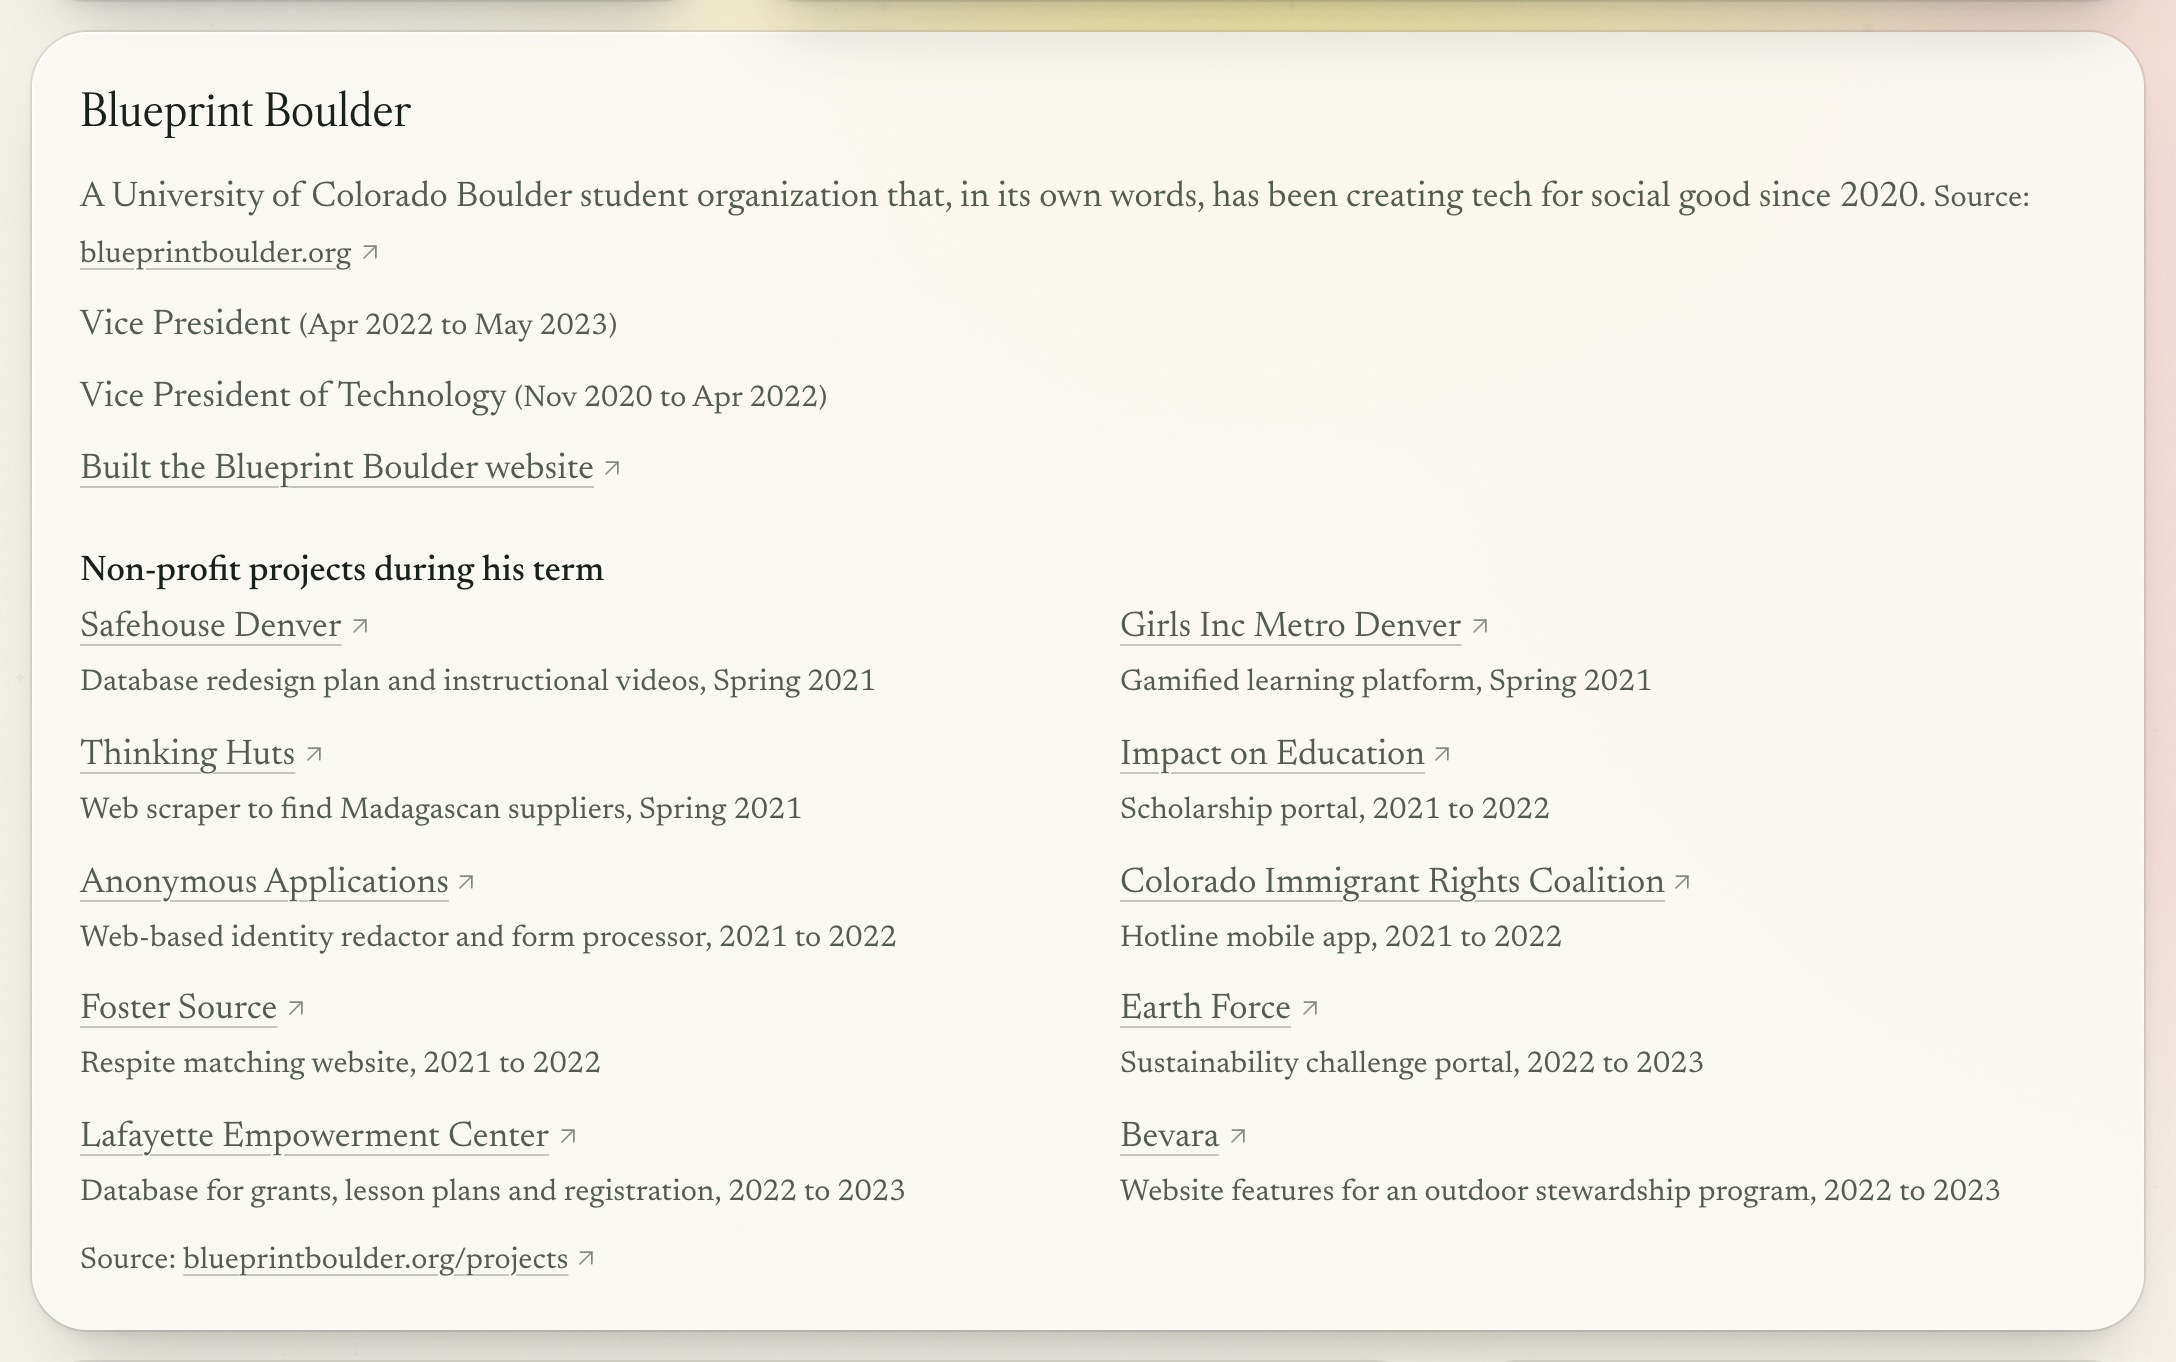
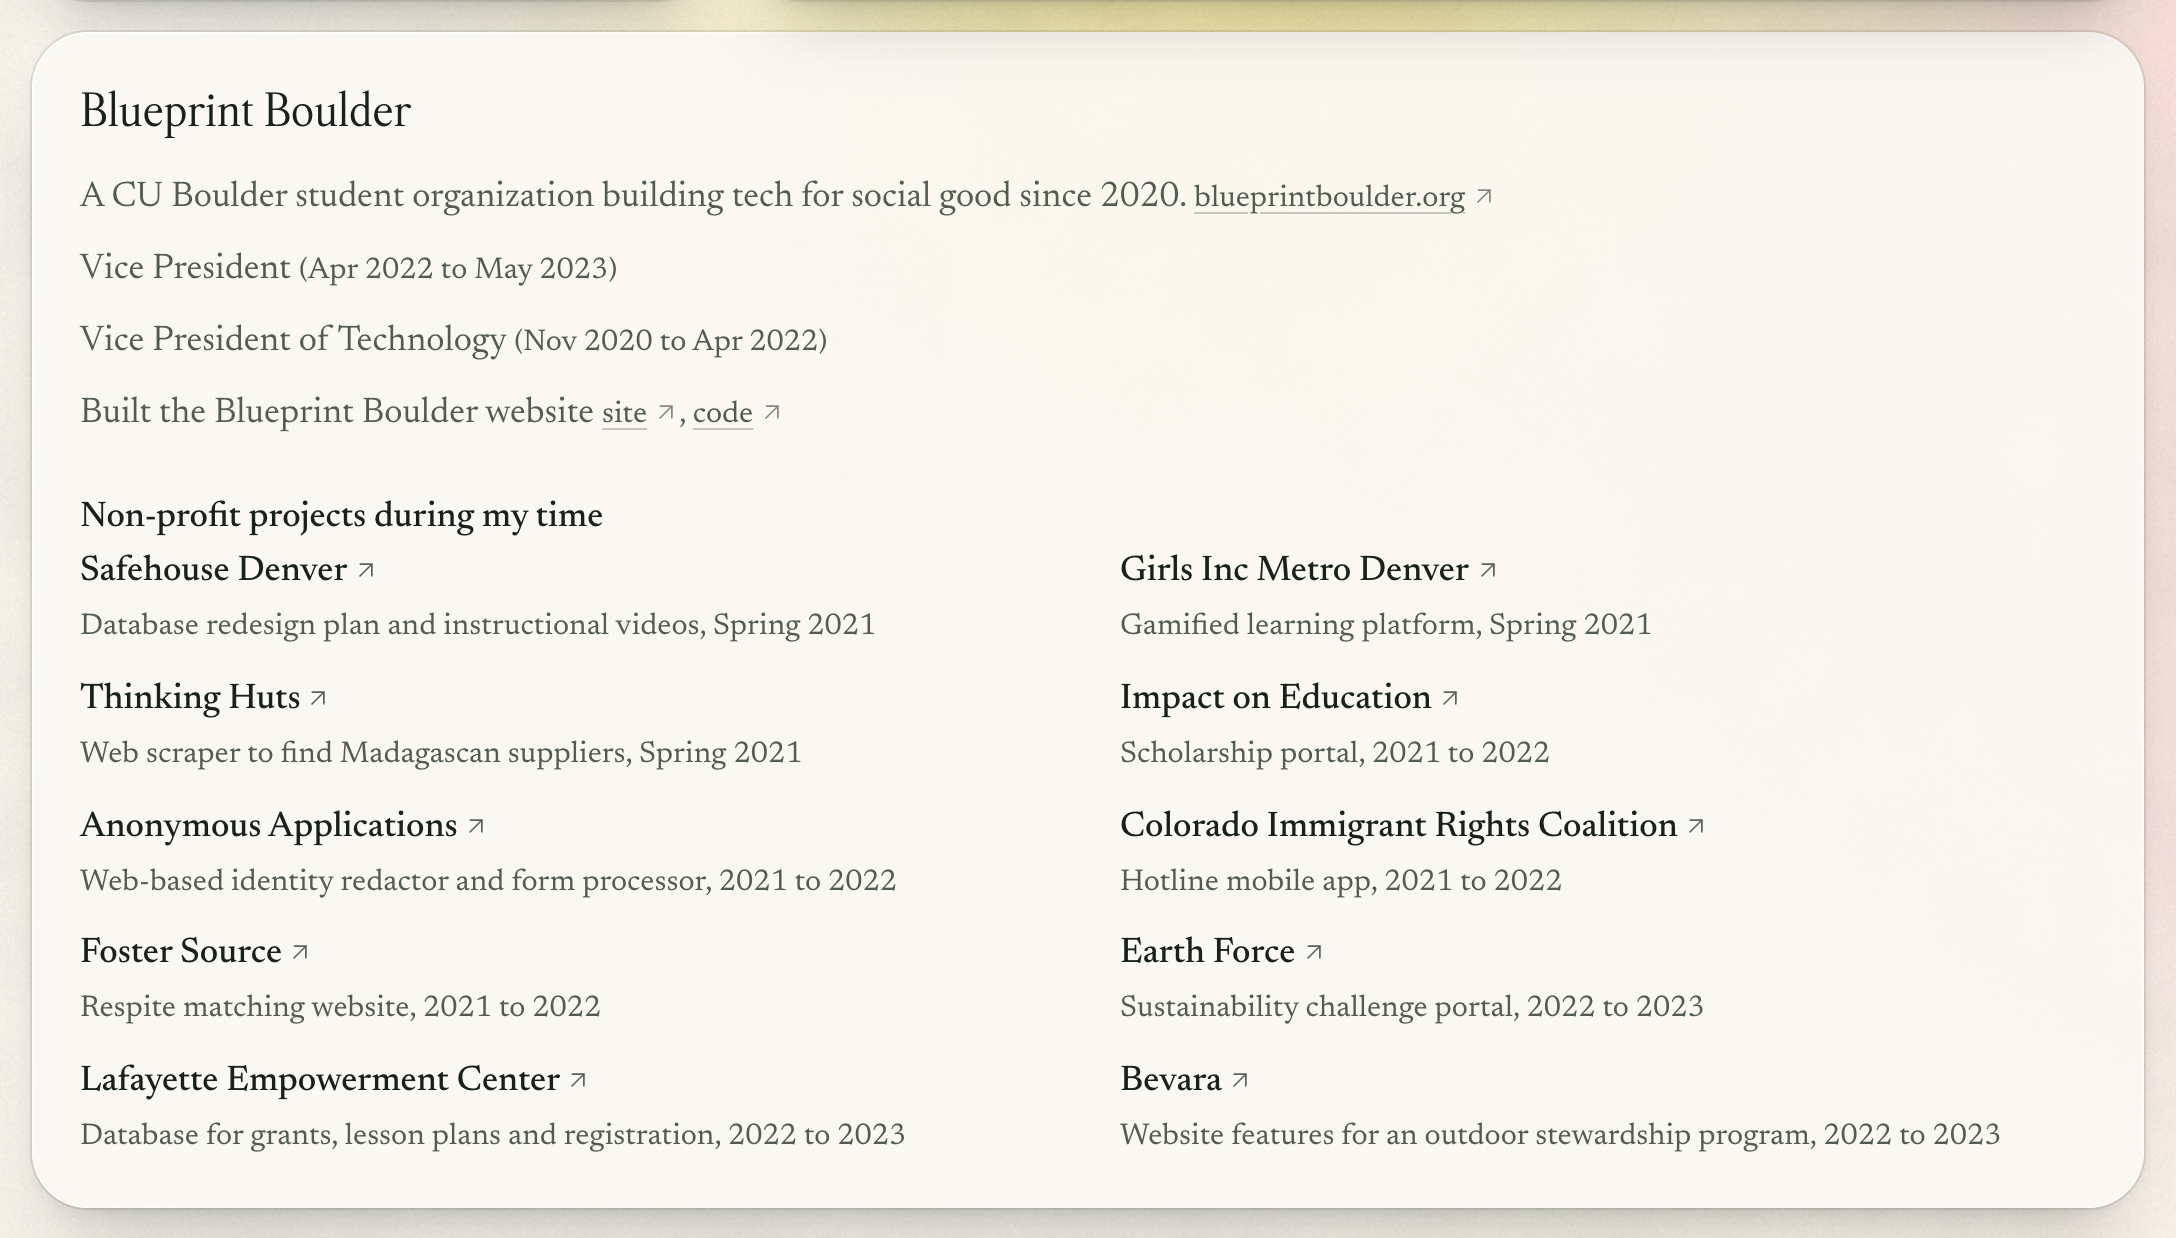
About: Blueprint card copy in first person, live site link, quieter project links; regenerated PDFs

diff --git a/apps/michal-ai/app/about/page.tsx b/apps/michal-ai/app/about/page.tsx
@@ -176,7 +176,10 @@ export default function AboutPage() {
 
         <Card id="blueprint" title={profile.blueprint.name} className="ab-bp">
           <p className="t-text">
-            {profile.blueprint.description} <span className="t-meta">Source: <Ext href={profile.blueprint.descriptionSource}>blueprintboulder.org</Ext></span>
+            {profile.blueprint.description}{' '}
+            <span className="t-meta">
+              <Ext href={profile.blueprint.url}>blueprintboulder.org</Ext>
+            </span>
           </p>
           <ul className="ab-plain t-text">
             {profile.volunteer.map((v) => (
@@ -185,23 +188,27 @@ export default function AboutPage() {
               </li>
             ))}
             <li>
-              <Ext href={profile.blueprint.site.repo}>{profile.blueprint.site.label}</Ext>
+              {profile.blueprint.site.label}{' '}
+              <span className="t-meta">
+                <Ext href={profile.blueprint.url}>site</Ext>
+                {', '}
+                <Ext href={profile.blueprint.site.repo}>code</Ext>
+              </span>
             </li>
           </ul>
-          <h3 className="ab-sub t-ui">Non-profit projects during his term</h3>
-          <ul className="ab-bp__list t-text">
+          <h3 className="ab-sub t-ui">Non-profit projects during my time</h3>
+          <ul className="ab-bp__list">
             {profile.blueprint.projects.map((p) => (
               <li key={p.org}>
-                <Ext href={p.url}>{p.org}</Ext>
-                <span className="t-meta">
+                <p className="t-ui">
+                  <Ext href={p.url}>{p.org}</Ext>
+                </p>
+                <p className="t-meta">
                   {p.what}, {p.year}
-                </span>
+                </p>
               </li>
             ))}
           </ul>
-          <p className="t-meta">
-            Source: <Ext href={profile.blueprint.projectsSource}>blueprintboulder.org/projects</Ext>
-          </p>
         </Card>
 
         <Card id="publications" title="Publications" list className="ab-pubs">

diff --git a/apps/michal-ai/content/profile.ts b/apps/michal-ai/content/profile.ts
@@ -246,8 +246,8 @@ export const profile = {
   blueprint: {
     name: 'Blueprint Boulder',
     url: 'https://blueprintboulder.org',
-    /** The org's own words, https://blueprintboulder.org/ ("We're Blueprint Boulder, and we've been creating tech for social good since 2020."). */
-    description: 'A University of Colorado Boulder student organization that, in its own words, has been creating tech for social good since 2020.',
+    /** Paraphrase of the org's own words, https://blueprintboulder.org/ ("We're Blueprint Boulder, and we've been creating tech for social good since 2020."). */
+    description: 'A CU Boulder student organization building tech for social good since 2020.',
     descriptionSource: 'https://blueprintboulder.org/',
     peopleUrl: 'https://blueprintboulder.org/people',
     site: {

diff --git a/apps/michal-ai/components/about/about-page.css b/apps/michal-ai/components/about/about-page.css
@@ -146,6 +146,12 @@
   display: grid;
   gap: 2px;
 }
+.ab-bp__list p {
+  margin: 0;
+}
+.ab-bp__list a:not(:hover):not(:focus-visible) {
+  text-decoration-color: transparent;
+}
 @media (min-width: 900px) {
   .ab-bp__list {
     grid-template-columns: repeat(2, minmax(0, 1fr));

diff --git a/apps/michal-ai/docs/blueprint-boulder.md b/apps/michal-ai/docs/blueprint-boulder.md
@@ -8,7 +8,9 @@ Read from blueprintboulder.org in Oct 2026.
 - People page (https://blueprintboulder.org/people) lists him as "Ex-Vice President", "2020 to Present", in the Alumni section. No bio.
 - Org in its own words (https://blueprintboulder.org/): "creating tech for social good since 2020". Student org of CU Boulder.
 - Website credit: repo https://github.com/blueprintboulder/blueprintboulder-website (created 2021-09-11) README says "Built by ItsMichal"; GitHub contributors: ItsMichal first with 32 commits (next 24, 18, 8, 6, 1).
-- Projects page (https://blueprintboulder.org/projects) lists 10 non-profit projects inside Nov 2020 to May 2023 (Spring 2021: 3; Fall 2021 to Apr 2022: 4; Fall 2022 to Apr 2023: 3). Shown on the card as printed.
+- Projects page (https://blueprintboulder.org/projects) lists 10 non-profit projects inside Nov 2020 to May 2023 (Spring 2021: 3; Fall 2021 to Apr 2022: 4; Fall 2022 to Apr 2023: 3). Shown on the card as printed; the card says "during my time" (delivered while he was on the team), not "oversaw".
+
+Card copy: "A CU Boulder student organization building tech for social good since 2020." is a plain paraphrase of the home page line above. The card has no inline source lines; sources are here and in `profile.blueprint`.
 
 ## Unverified
 
